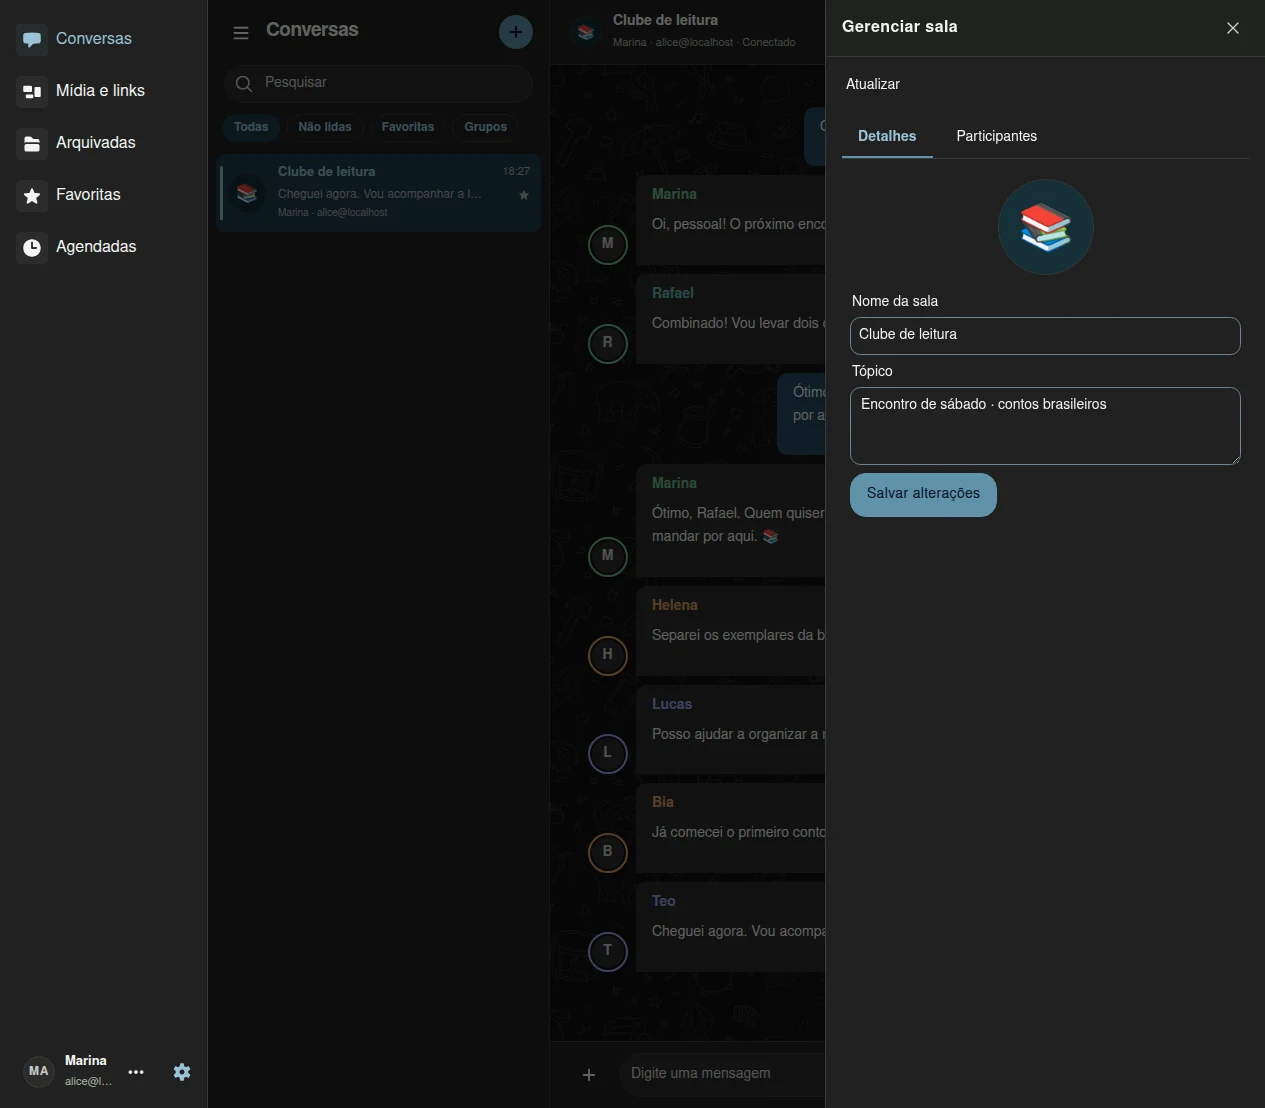
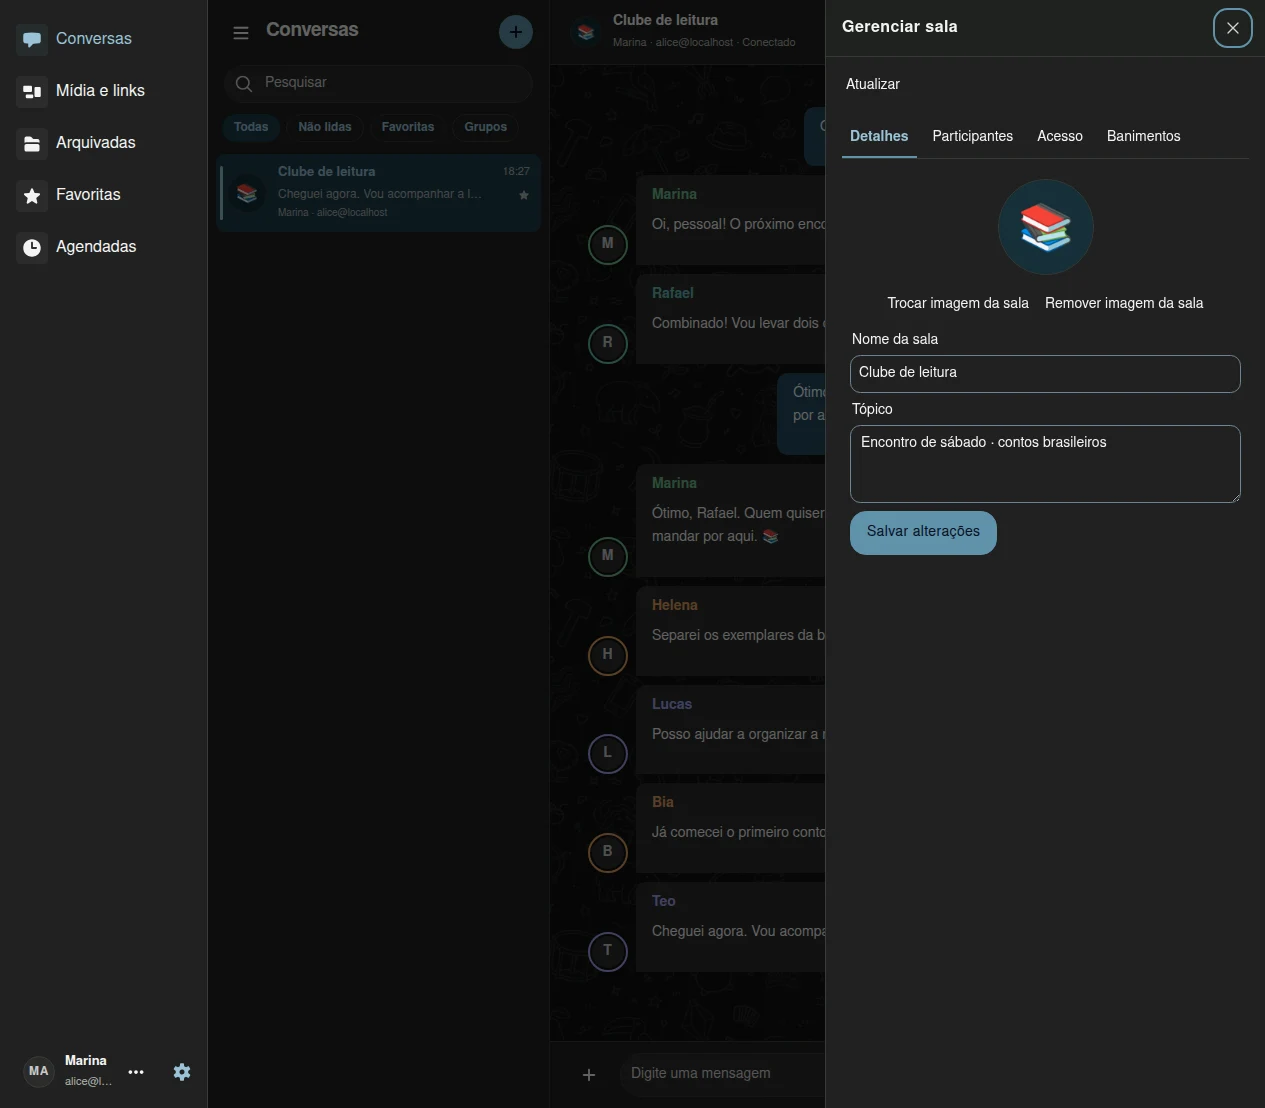
Document participant actions and room image editing

diff --git a/content/docs/manual/index.md b/content/docs/manual/index.md
@@ -43,11 +43,12 @@ A prévia pode mostrar nome, descrição, assunto, foto e número de participant
 Estas opções estão em desenvolvimento para uma versão posterior à v0.0.1-rc.8 disponível em **Baixar**.
 
 - Em **Nova conversa → Entrar na sala**, abra **Explorar salas públicas** e selecione uma sala para preencher o endereço e ver a prévia. Se a sala exigir senha, informe-a antes de entrar.
-- Dentro da sala, use **Mais opções → Gerenciar sala** A aba **Detalhes** mostra a imagem da sala e reúne o nome e o tópico, que aceita várias linhas. Os campos são editáveis conforme as permissões da conta na sala. Use **Mais opções → Convidar pessoas** para enviar um convite.
-- Na aba **Participantes**, abra o nome de uma pessoa para alterar a função ou remover a pessoa da sala. Em **Acesso à sala**, quem administra pode conceder ou retirar acesso, banir e consultar as listas que o serviço disponibiliza.
+- Dentro da sala, abra **Mais opções → Gerenciar sala**. Em **Detalhes**, edite o nome e o tópico conforme suas permissões. Se você for proprietário e o servidor oferecer suporte, use **Trocar imagem da sala** ou **Remover imagem da sala**.
+- Na aba **Participantes**, abra o menu de três pontos ao lado da pessoa para ver as ações disponíveis, como permitir falar, remover da sala ou banir. Use **Mais opções → Convidar pessoas** para enviar um convite.
+- Administradores e proprietários podem consultar e alterar o acesso na aba **Acesso**. Na aba **Banimentos**, é possível banir um endereço ou retirar um banimento da lista.
 - Quando a sala oferece moderação de mensagens, moderadores podem usar **Remover mensagem** no menu da mensagem. A remoção aparece na conversa após a confirmação da sala.
 
-![Aba Detalhes de Gerenciar sala com a imagem da sala e os campos de nome e tópico.](imagens/gerenciar-sala.webp "Aba Detalhes de Gerenciar sala")
+![Aba Detalhes de Gerenciar sala com as ações para trocar e remover a imagem da sala.](imagens/gerenciar-sala.webp "Aba Detalhes de Gerenciar sala")
 
 [Ver a captura completa](imagens/gerenciar-sala-original.webp)
 
